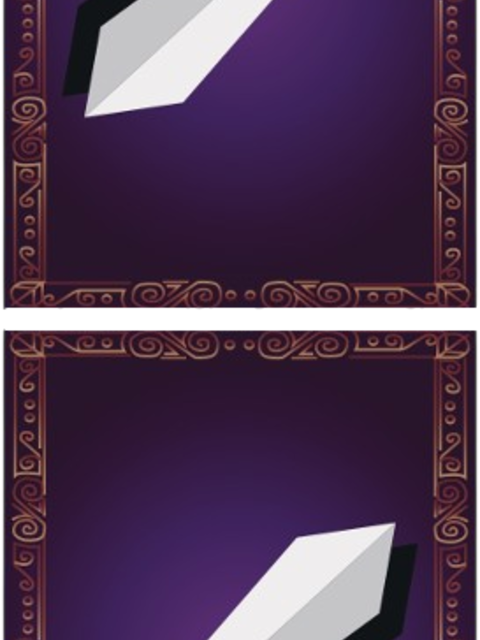
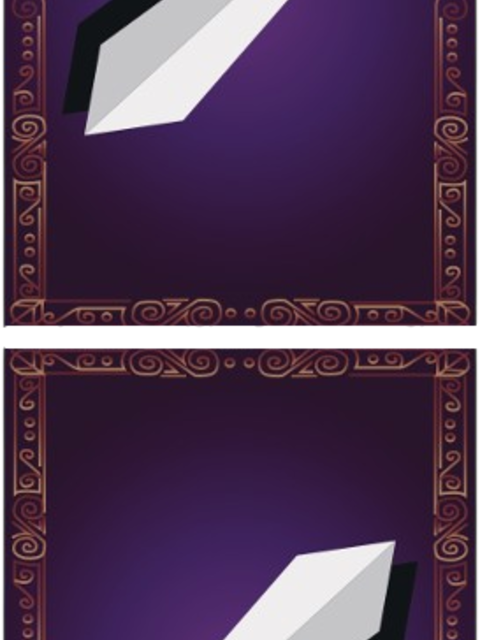
Enfrentamiento2

diff --git a/Juego_Reyes_Calville/src/app.js b/Juego_Reyes_Calville/src/app.js
@@ -5,6 +5,7 @@ const onxrloaded = () => {
       require('../image-targets/CartaEscudo.json'),
       require('../image-targets/EnfretamientoEspada.json'),
       require('../image-targets/cartamadera.json'),
+      require('../image-targets/Merged.json'),
     ],
   })
 }

diff --git a/Juego_Reyes_Calville/src/guerrerosEnfrentamiento.ts b/Juego_Reyes_Calville/src/guerrerosEnfrentamiento.ts
@@ -1,6 +1,6 @@
 import * as ecs from '@8thwall/ecs'
 
-const DUELO = 'EnfrentamientoEspada'
+const DUELO = 'Merged'
 
 ecs.registerComponent({
   name: 'Guerrero Enfrentamiento',

diff --git a/Juego_Reyes_Calville/src/RotarDado.ts b/Juego_Reyes_Calville/src/RotarDado.ts
@@ -1,6 +1,6 @@
 import * as ecs from '@8thwall/ecs'
 
-const DUELO = 'EnfrentamientoEspada'
+const DUELO = 'Merged'
 const GIRO_MS = 1200
 
 ecs.registerComponent({
